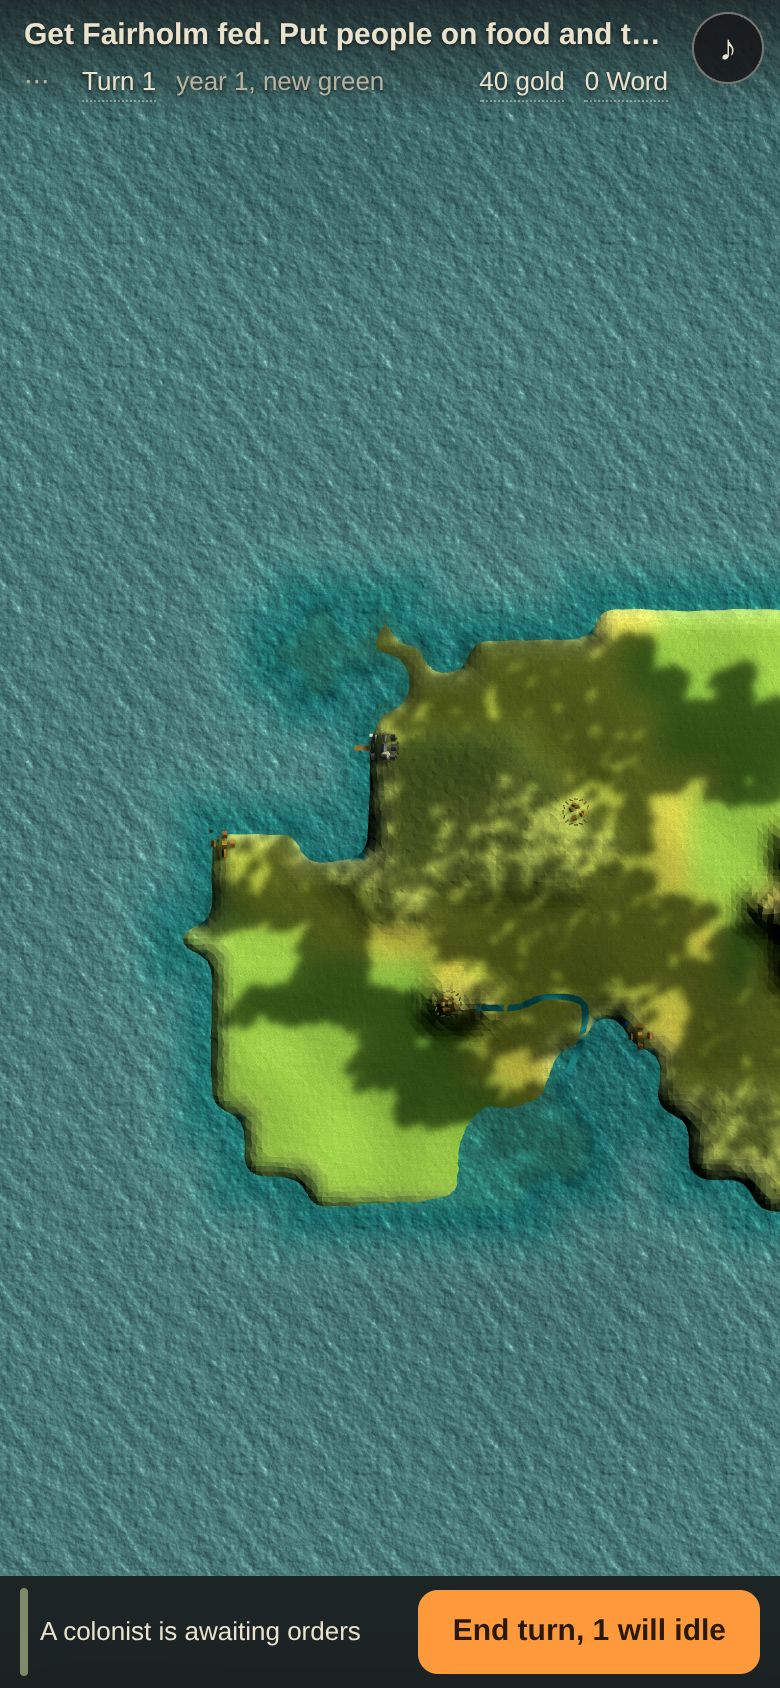
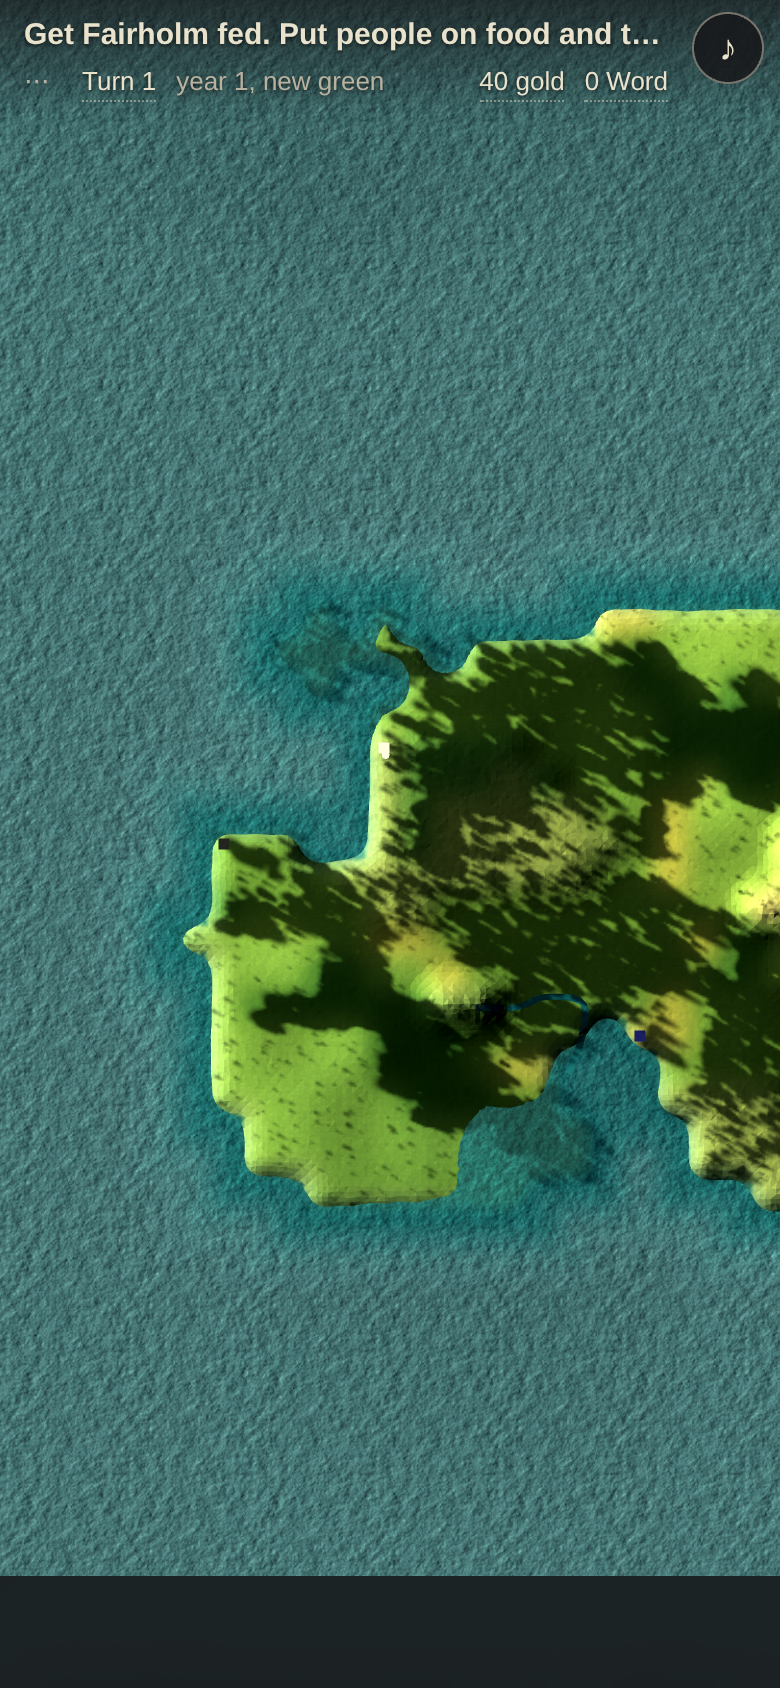
Keep the buildings on land, and record what this session decided
A footprint this size reaches past the tile it is counted on, which is the
point, and on a coastal settlement the ring can reach past the coast with
it. A building that will not stand on the ground it is given walks back
toward the middle until it will.

With the pictures, the two scripts that took them, and decisions 66 to 74.

Claude-Session: https://claude.ai/code/session_01BnaKxg5sYv2MtJa999phiz

diff --git a/src/render/sprites.ts b/src/render/sprites.ts
@@ -150,7 +150,14 @@ function hash(a: number, b: number): number {
 
 /** The buildings of one settlement, laid out from its id so the place never reshuffles. Larger
  *  places stand further out, which is how a settlement grows past the tile it is counted on. */
-export function layOut(id: number, pop: number, cx: number, cz: number, heightAt: (x: number, z: number) => number): SpritePlacement[] {
+export function layOut(
+  id: number,
+  pop: number,
+  cx: number,
+  cz: number,
+  heightAt: (x: number, z: number) => number,
+  onLand: (x: number, z: number) => boolean,
+): SpritePlacement[] {
   const n = pieceCount(pop)
   const grown = Math.max(0, Math.min(1, (n - 2) / Math.max(1, ATLAS_PIECES.length - 2)))
   const spread = SPRITE.spreadFrom + grown * (SPRITE.spreadTo - SPRITE.spreadFrom)
@@ -172,8 +179,14 @@ export function layOut(id: number, pop: number, cx: number, cz: number, heightAt
     const radius = ring === 0 ? 0 : spread * (ring / Math.max(1, Math.ceil((n - 1) / 4)))
     const jx = (hash(id * 31 + k, 2) - 0.5) * spread * SPRITE.jitter
     const jz = (hash(id * 31 + k, 3) - 0.5) * spread * SPRITE.jitter
-    const x = cx + Math.cos(angle) * radius + jx
-    const z = cz + Math.sin(angle) * radius * 0.85 + jz
+    // a footprint this size reaches past the tile, and a coastal settlement's ring can reach past
+    // the coast with it. A building that will not stand on the ground it is given walks back in
+    let x = cx + Math.cos(angle) * radius + jx
+    let z = cz + Math.sin(angle) * radius * 0.85 + jz
+    for (let back = 0; back < 3 && !onLand(x, z); back++) {
+      x = cx + (x - cx) * 0.5
+      z = cz + (z - cz) * 0.5
+    }
     // a tint of one is the drawing as it was drawn, so the wander is around that rather than from it
     const warm = (hash(id * 13 + k, 4) - 0.5) * SPRITE.hueJitter
     const value = 1 + (hash(id * 13 + k, 5) - 0.5) * SPRITE.valueJitter

diff --git a/src/render/settlements.ts b/src/render/settlements.ts
@@ -94,6 +94,10 @@ export function buildSettlements(s: GameState, heightAt: (x: number, z: number) 
   const occluders: Occluder[] = []
 
   const push = (list: Piece[], p: Piece) => { list.push(p) }
+  const onLand = (x: number, z: number) => {
+    const t = s.world.tiles[Math.floor(z) * w + Math.floor(x)]
+    return !!t && t.terrain !== 'water'
+  }
 
   for (const st of s.settlements) {
     const cx = (st.tile % w) + 0.5, cz = Math.floor(st.tile / w) + 0.5
@@ -106,7 +110,7 @@ export function buildSettlements(s: GameState, heightAt: (x: number, z: number) 
     // the banner below is the whole settlement, per art brief section 10
     const drawn = era === 0
     if (drawn) {
-      for (const place of layOut(st.id, pop + built * 0.5, cx, cz, heightAt)) {
+      for (const place of layOut(st.id, pop + built * 0.5, cx, cz, heightAt, onLand)) {
         places.push(place)
         occluders.push({ x: place.x, z: place.z, height: SPRITE.occluderHeight, radius: SPRITE.occluderRadius })
       }

diff --git a/DECISIONS.md b/DECISIONS.md
@@ -892,6 +892,132 @@ ground, and open ground is most of what the props now cover. It earns its place 
 it casts rather than through its own shading.
 
 
+## The drawn settlements, the shadows and the open ground, session of 23 August 2026
+
+### 66. The baked drop shadows in the settlement sheet stay, and the sun turns to meet them
+
+The brief offered two ways round the fact that the seven early era buildings are drawn with their
+light already in them: measure the baked direction and rotate the scene's sun to match, or strip the
+baked shadows at load and let the engine stamp its own. The first was to be tried first.
+
+It is the one that was done, and the second turns out not to be available. The drop shadows are not
+on a layer of their own and they are not soft: the sheet's alpha is ninety-nine per cent hard, the
+shadows sit inside the same silhouette as the walls, and their colour overlaps the thatch. Measured
+in saturation against value, a shadow on the white of the background reads 0.32 and the pale roofs
+read 0.27, so any threshold that takes the shadows takes the roofs first. Tried at 0.235 and the
+barn and the yard came away with holes in their roofs. There is no colour test that separates them.
+
+So the sun mirrors instead. It was at azimuth -52 to -6 across the year, which puts it over the
+player's right shoulder; it is now -140 to -172, which puts it over the left, matching the sheet's
+own light from the upper left and its shadows to the lower right. The seasonal swing narrows from
+fifty degrees to thirty so the agreement holds in every season. Verified by baking the shadow map
+and looking at it, and by shooting the same frame at four known azimuths.
+
+The one thing that was separable is the checkerboard the extractor left behind wherever a drop
+shadow had darkened the background enough to stop it reading as background. That is genuinely
+neutral where nothing in the drawing is, and it comes away cleanly. See `scripts/clean-sprites.mjs`.
+
+### 67. Both settlement tiers are built and the zoom picks between them
+
+A settlement below the zoom where props cull is one mark in owner colour, per art brief section 10.
+That could have been a rebuild on the zoom crossing, and the first attempt was: `buildSettlements`
+took a level of detail argument. It never fired, because a zoom change does not rebuild anything,
+and it must not: a rebuild during a gesture is the one thing the renderer never does. Both tiers are
+built and `updateLod` switches their visibility, like the two prop tiers.
+
+### 68. The billboards do not depth test, and the units and rings are pushed after them
+
+A picture of a building has no depth. Depth testing it against a tree makes any overlapping tree
+punch a hole in it, and depth writing makes two overlapping buildings fight. So the sprite layer
+tests nothing, writes nothing, and relies on instance order for the sort, which is why the layout
+sorts by world z before it is filled.
+
+The cost is that everything drawn before it is covered by it. Two things must not be: the selection
+rings, which are now transparent with a render order of ten, and the units, whose material is now
+transparent with a render order of two, so a garrison in a settlement is still visible. Neither
+change moves anything on screen; both only move it in the queue.
+
+### 69. A prop's shadow offset comes from its height, not from its altitude
+
+A prop samples the light a little toward the sun so it does not stand in the shadow it is itself
+casting. That offset was a fixed multiple of the fragment's world height, which is two mistakes: it
+is right at one sun elevation and wrong at every other, and world height on a mountain is two and a
+half tiles, so a boulder up there was reading the light of somewhere three tiles away while a tuft
+in a marsh read its own.
+
+It is now the prop's height over the tangent of the sun's elevation, capped at 3.2 tiles, with the
+height itself capped at 0.55 tiles, about the tallest prop there is. The shader has only the world
+height and not the height above the ground, so the second cap is an approximation; carrying a base
+height per instance would be exact and was not thought worth an attribute.
+
+### 70. The terrain carries the colour of the props it is not wearing
+
+The complaint that the map changes colour with zoom is real, and the cause is not what it looks
+like. Measured over the same four tiles of ground at three zooms, with the same reading size, the
+ground's own colour is constant: 1.3 per cent of luminance and under three degrees of hue. Nothing
+in the shading varies with camera distance. What varies is what is drawn on it.
+
+Pulling back takes twenty thousand props off the map at a stroke, and the same wood goes from
+canopies with shadow between them to a flat rectangle of one green. So the terrain now carries a
+second colour per vertex, being what the props standing there would average to and how much of the
+ground they cover, and blends to it by exactly the amount that is not being drawn. It reads the
+light where their tops would have been as well, or a wood at overview zoom is the dark floor under
+the trees while the same wood at detail zoom is the lit tops of them.
+
+Both are derived from the same constants the props are placed from, in `groundCover`, so the two
+cannot drift apart. The cap is 0.8: a wood floor is still visible between the trees.
+
+### 71. The film grain is measured in pixels
+
+It was a fixed number of cycles per tile, which at overview zoom is twelve cycles per pixel. That is
+not a grain, it is speckle, and it was plainly visible on the open sea. In pixels it is the same
+grain at every zoom. Measuring it did not show the palette moving either way, so this is a fix to
+an artefact rather than to the palette; it is recorded because the palette is what it was changed
+for.
+
+### 72. Props are stamped onto the shadow map after the blur, at half depth
+
+The reason nothing could be seen on a phone. The bake stamped every prop and then ran two passes of
+a three by three blur over the whole map, and a tree's shadow is three or four texels across. The
+blur belongs to the ray marched ground shadow, which is coarse and needs it. Props go on afterwards.
+
+Half depth rather than full, because they accumulate: at full depth the first tree takes all the
+light there is and a wood of forty of them bakes to one black blob with no shadow shapes in it. Also
+sixteen texels per tile rather than twelve, a reach of fourteen tiles rather than eight, and a sun
+five to eight degrees lower in every season, because the length of a shadow is the height of the
+thing over the tangent of the sun's elevation and nothing else.
+
+### 73. Boot time check one is flaky in this environment and was already
+
+`npm run smoke` check one allows two and a half seconds from navigation to a playable state. On this
+machine, under software rendering, it comes in anywhere between two and three and a half seconds,
+and it does so on the commit before this session's work as well: three runs there gave 2384, 2337
+and 3341 milliseconds. It is the dev server and the machine, not the renderer.
+
+The renderer's own share went down rather than up, with nearly twice the props on the map and a
+shadow map half again as large. Colouring the surface asked every vertex for its nine neighbours'
+colours, and a standard map has seventy thousand vertices, so two thousand tiles were being asked
+six hundred thousand times; they are asked once each now. `Math.hypot` went with it. Terrain build
+on a standard map: 273 milliseconds before, 168 after.
+
+### 74. What was tried on the atlas and did not work
+
+Kept because the next person to look at that sheet will try the same things.
+
+- **Separating the drop shadow by colour.** Covered in decision 66. Not possible.
+- **Detecting the checkerboard by its own frequency.** The residue is a two level pattern at a known
+  period, so a local correlation against a square wave at the right phase ought to find it. The
+  phase is findable, and the correlation lights up on the silhouette edges instead, because a hard
+  alpha edge has far more energy at that frequency than the checkerboard does.
+- **Reconstructing the shadow as a ratio against the checkerboard underneath.** The surviving grey
+  really is background times a shadow factor, and the two levels really are 204 and 255, so
+  dividing one by the other would give a clean soft shadow with the grid taken out. It needs the
+  period and the phase per piece, which needs the correlation above.
+
+What is left is a handful of shadow darkened checker squares inside drop shadows that were staying
+anyway. At working zoom they are five pixels across inside a shadow. They are not visible.
+
+
 ## Left out of version one
 
 - Rival diplomacy offers (`C.flags.rivalDiplomacyOffers: false`).
